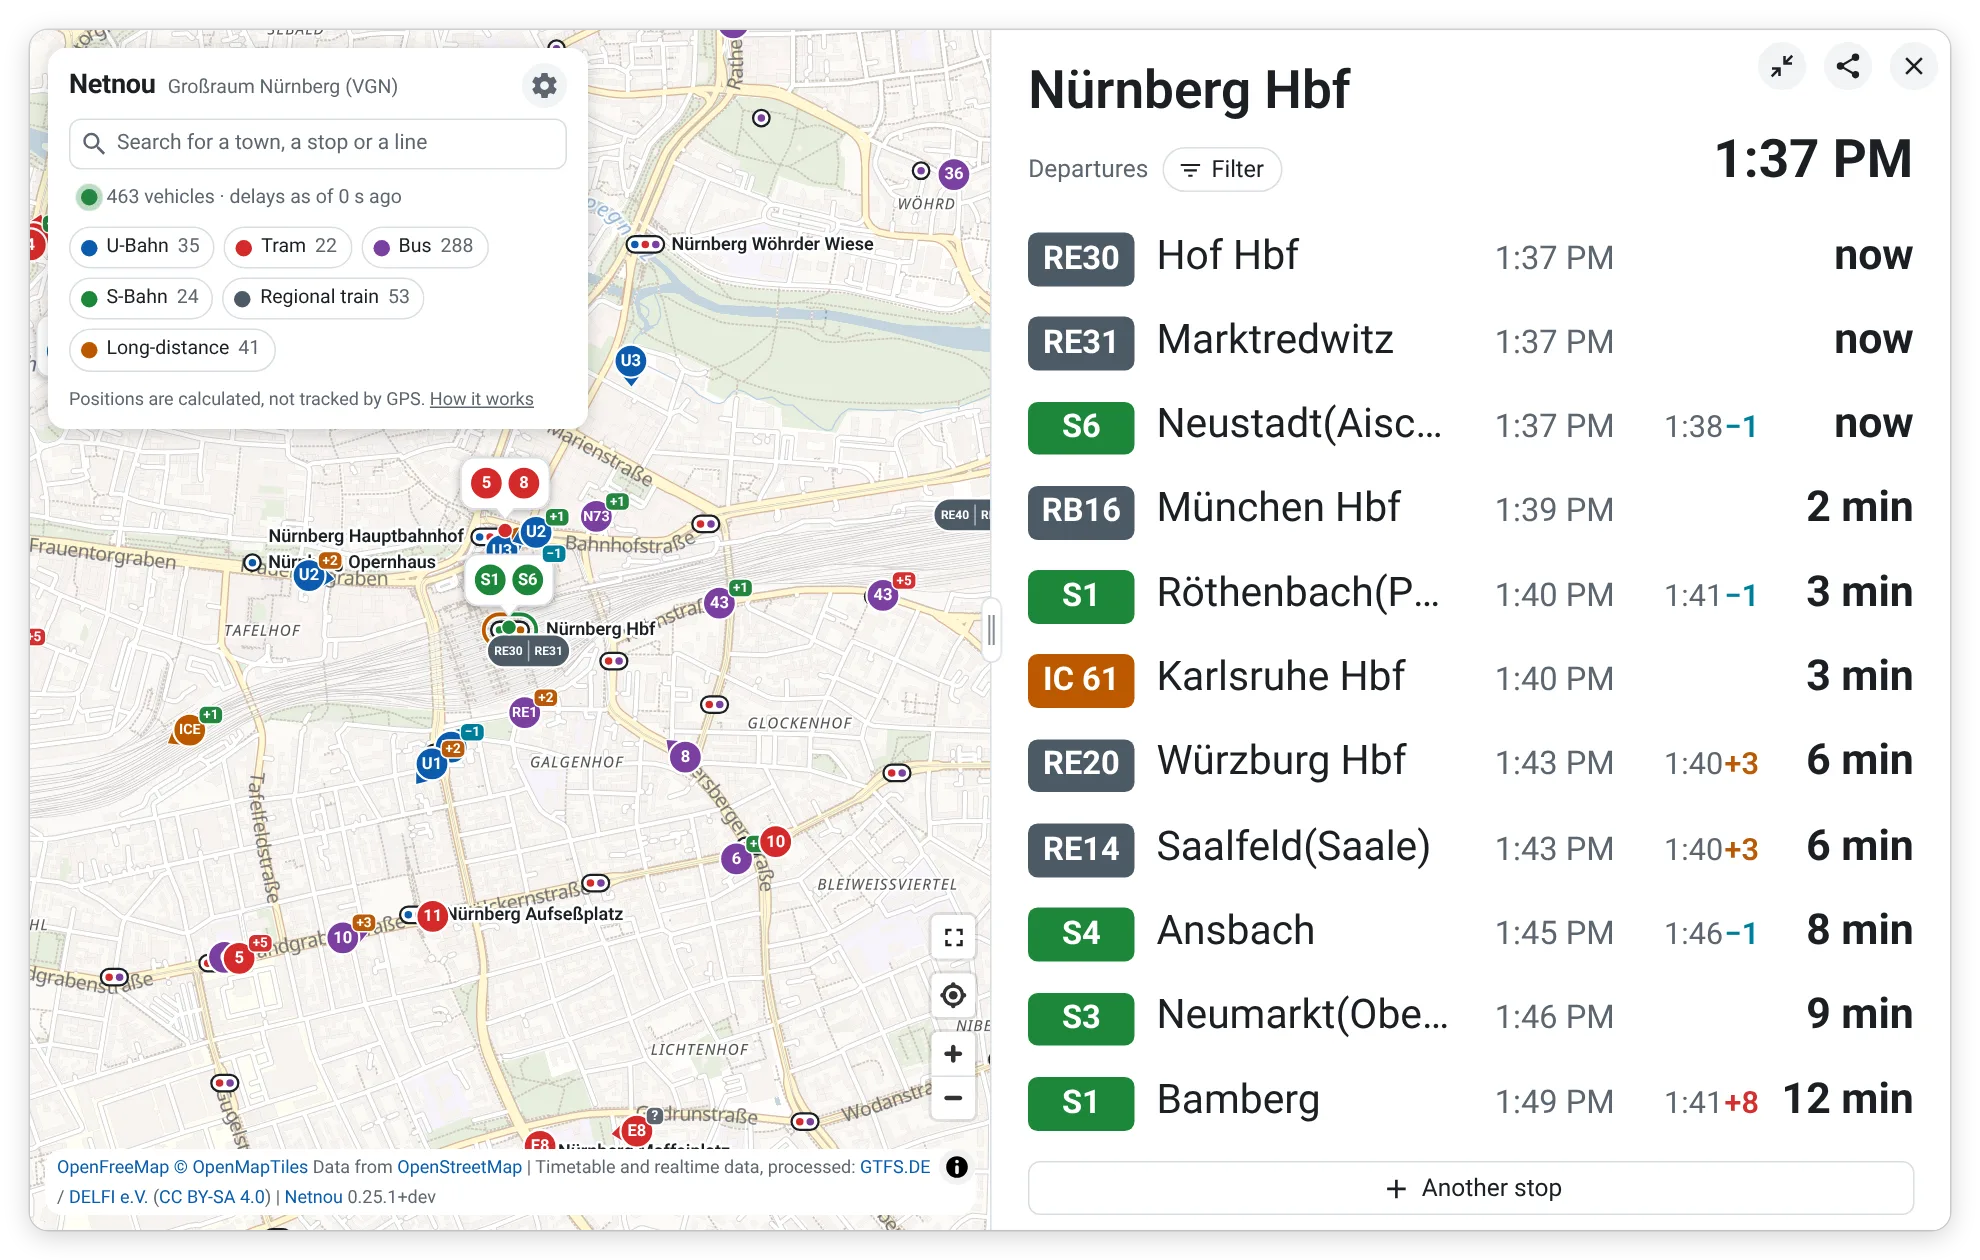
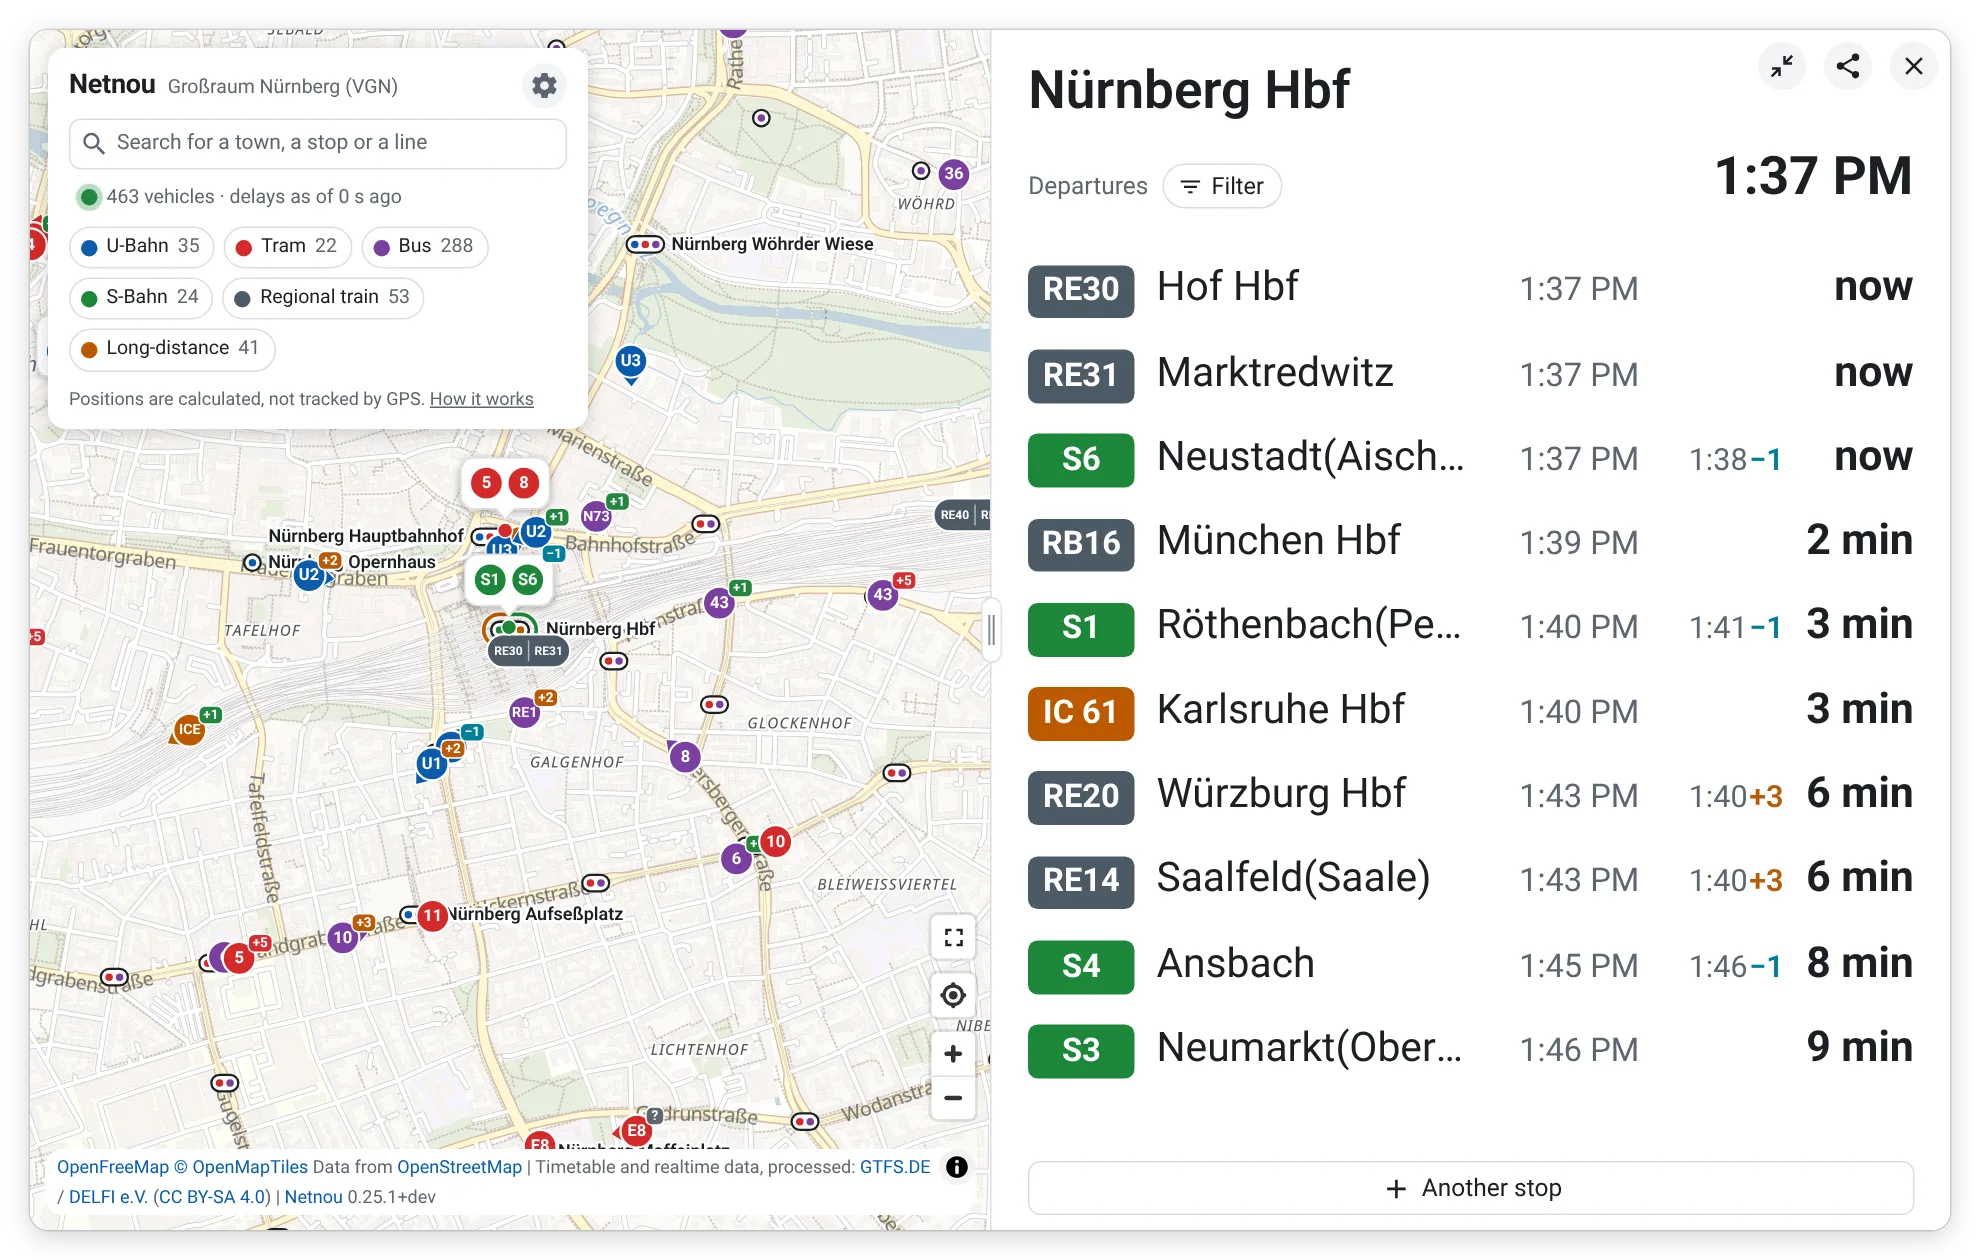
fix(page): room on a board between its name, its buttons and its clock
On a phone the buttons in the corner of a board ended where its clock
began, and the line of its name 2 px above the filter's chip below it, so
that the tails of a g or a p almost touched it. A gap between the name's
row and the row below it, at least 8 px and more where the board's type is
larger, keeps them apart: about 7 px between the buttons and the clock and
10 px between the name and the chip on a phone, 11 px on a wide screen.

diff --git a/public/style.css b/public/style.css
@@ -1574,13 +1574,16 @@ li:last-child > .row.stop .rail::before { bottom: 50%; }
 :root[data-board] #panel-body { display: flex; flex-direction: column; padding: 0 0.9em; overflow: hidden; }
 
 /* At its top the name of the stop, and the clock under the buttons; on a
-   wall, where the buttons are not, beside the name. */
+   wall, where the buttons are not, beside the name. Between the name and the
+   row below it room for the tails of its letters (p, g), and between the
+   buttons and the clock, also where the board's type is small, as on a phone. */
 .panel .panel-head.board-head {
   display: grid;
   grid-template-columns: minmax(0, 1fr) auto;
   grid-template-areas: "title title" "sub clock" "notes notes";
   align-items: baseline;
   column-gap: 0.6em;
+  row-gap: max(8px, 0.4em);
   padding: 0.6em 0.9em 0.3em;
   border-bottom: 0;
 }
